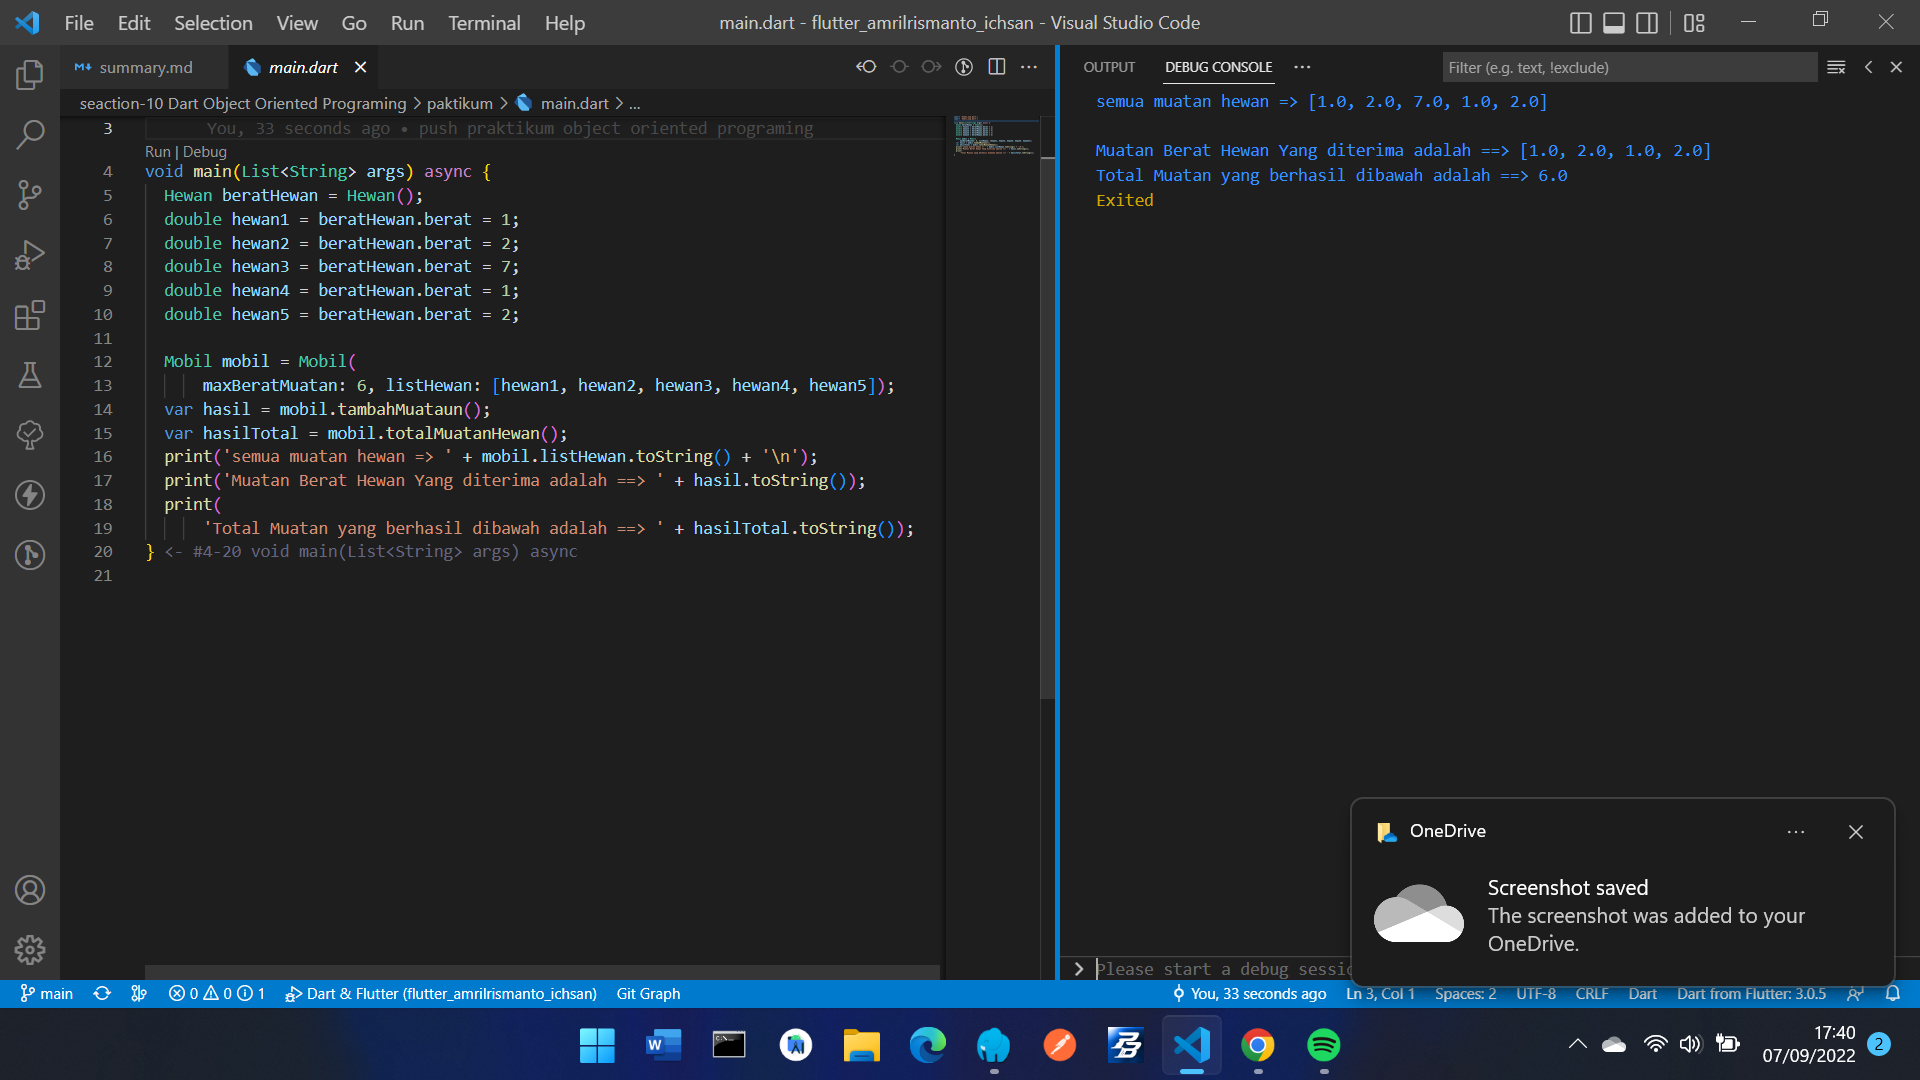
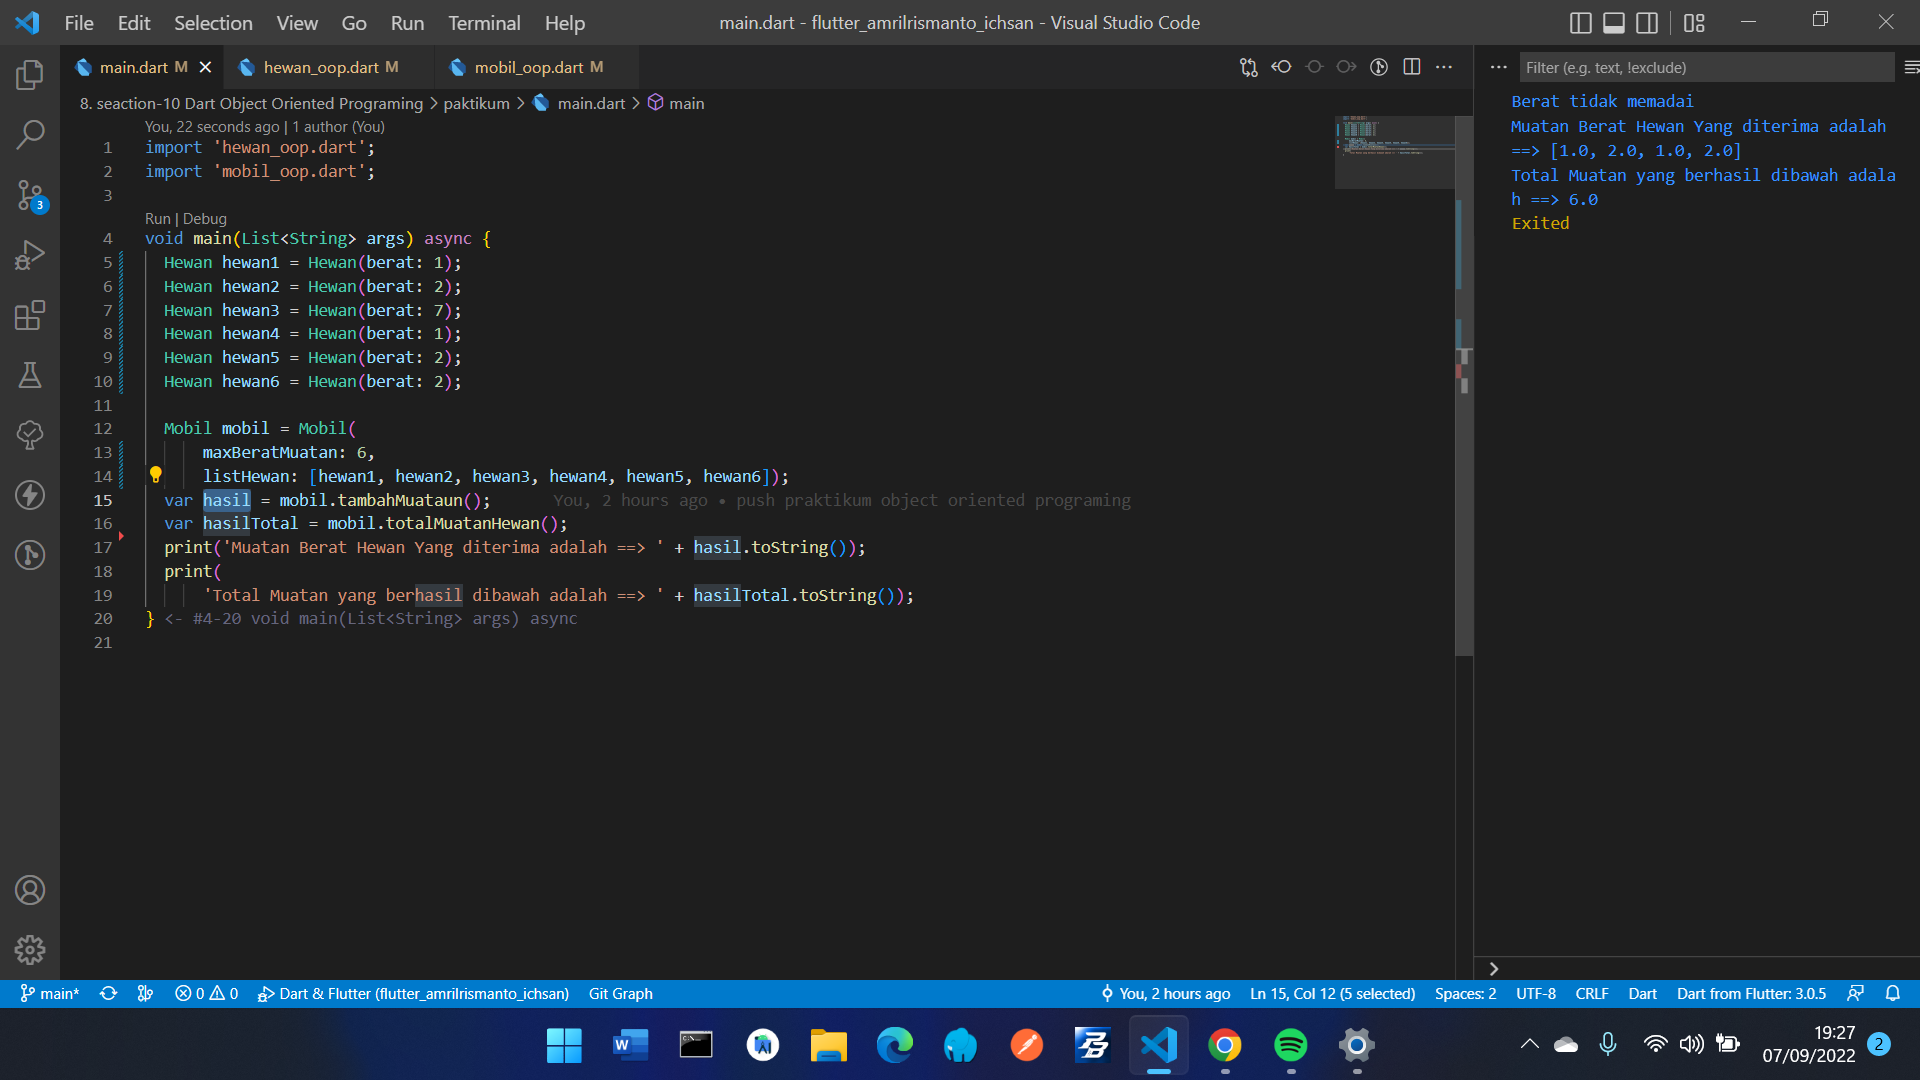
fixed final code

diff --git a/8. seaction-10 Dart Object Oriented Programing/paktikum/main.dart b/8. seaction-10 Dart Object Oriented Programing/paktikum/main.dart
@@ -2,18 +2,18 @@ import 'hewan_oop.dart';
 import 'mobil_oop.dart';
 
 void main(List<String> args) async {
-  Hewan beratHewan = Hewan();
-  double hewan1 = beratHewan.berat = 1;
-  double hewan2 = beratHewan.berat = 2;
-  double hewan3 = beratHewan.berat = 7;
-  double hewan4 = beratHewan.berat = 1;
-  double hewan5 = beratHewan.berat = 2;
+  Hewan hewan1 = Hewan(berat: 1);
+  Hewan hewan2 = Hewan(berat: 2);
+  Hewan hewan3 = Hewan(berat: 7);
+  Hewan hewan4 = Hewan(berat: 1);
+  Hewan hewan5 = Hewan(berat: 2);
+  Hewan hewan6 = Hewan(berat: 2);
 
   Mobil mobil = Mobil(
-      maxBeratMuatan: 6, listHewan: [hewan1, hewan2, hewan3, hewan4, hewan5]);
+      maxBeratMuatan: 6,
+      listHewan: [hewan1, hewan2, hewan3, hewan4, hewan5, hewan6]);
   var hasil = mobil.tambahMuataun();
   var hasilTotal = mobil.totalMuatanHewan();
-  print('semua muatan hewan => ' + mobil.listHewan.toString() + '\n');
   print('Muatan Berat Hewan Yang diterima adalah ==> ' + hasil.toString());
   print(
       'Total Muatan yang berhasil dibawah adalah ==> ' + hasilTotal.toString());

diff --git a/8. seaction-10 Dart Object Oriented Programing/paktikum/mobil_oop.dart b/8. seaction-10 Dart Object Oriented Programing/paktikum/mobil_oop.dart
@@ -1,19 +1,21 @@
+import 'hewan_oop.dart';
+
 class Mobil {
   final double maxBeratMuatan;
-  final List listHewan;
+  final List<Hewan> listHewan;
   Mobil({required this.maxBeratMuatan, required this.listHewan});
   List listMuatan = [];
 
   tambahMuataun() {
     double totalHewan = 0.0;
     for (var i = 0; i < listHewan.length; i++) {
-      if (listHewan[i] <= maxBeratMuatan) {
-        totalHewan += listHewan[i];
+      if (listHewan[i].berat <= maxBeratMuatan) {
+        totalHewan += listHewan[i].berat;
         if (totalHewan > maxBeratMuatan) {
-          print('sama lewati aja');
+          print('Berat tidak memadai');
           continue;
         } else {
-          listMuatan.add(listHewan[i]);
+          listMuatan.add(listHewan[i].berat);
         }
       }
     }

diff --git a/8. seaction-10 Dart Object Oriented Programing/paktikum/hewan_oop.dart b/8. seaction-10 Dart Object Oriented Programing/paktikum/hewan_oop.dart
@@ -1,5 +1,5 @@
 
 class Hewan {
   double berat = 0.0;
-  // Hewan({required this.berat});
+  Hewan({required this.berat});
 }
